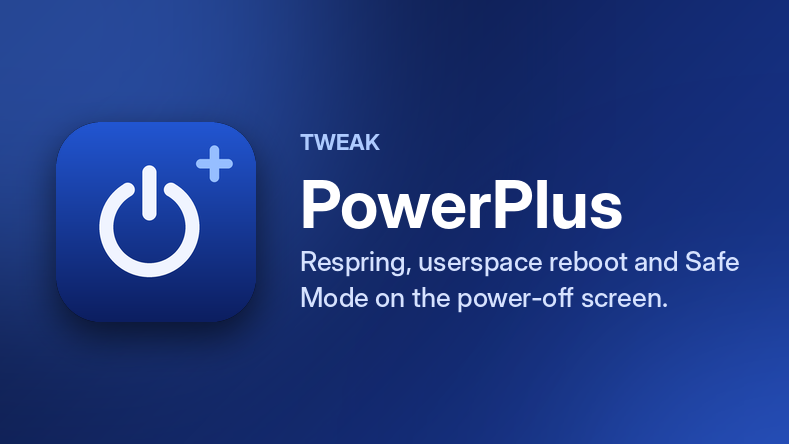
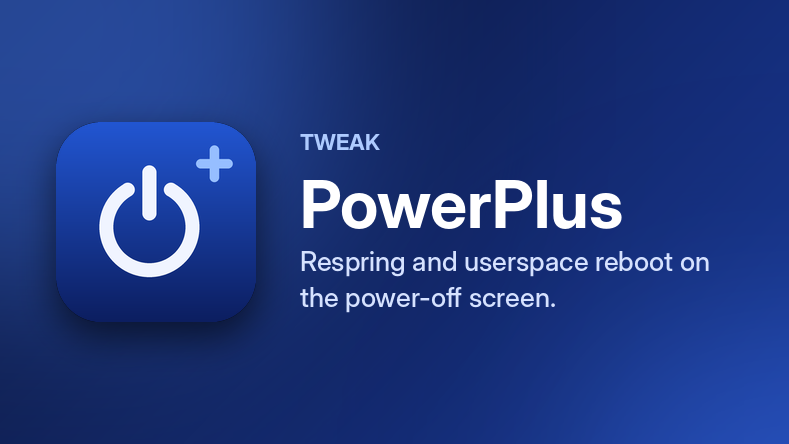
PowerPlus 1.0.1: remove the Safe Mode button
Claude-Session: https://claude.ai/code/session_01PR9mffMuRsox66mp2daeof

Changed region(s): [[0.365, 0.6441, 0.8517, 0.7027], [0.5171, 0.5563, 0.943, 0.6149]]

diff --git a/depictions/com.mymculture.powerplus.html b/depictions/com.mymculture.powerplus.html
@@ -36,14 +36,14 @@
 
   <div class="sec">
     <h2>About</h2>
-    <p><b>PowerPlus</b> adds three buttons to the slide-to-power-off screen, so the things you actually do on a jailbroken device are one hold of the power button away.</p>
+    <p><b>PowerPlus</b> adds two buttons to the slide-to-power-off screen, so the things you actually do on a jailbroken device are one hold of the power button away.</p>
   </div>
 
   <div class="sec">
     <h2>How to use</h2>
     <ol>
       <li>Hold the power button (or power and a volume button) until the power-off screen appears.</li>
-      <li>Tap <b>Respring</b>, <b>Userspace</b> or <b>Safe Mode</b> above Cancel.</li>
+      <li>Tap <b>Respring</b> or <b>Userspace</b> above Cancel.</li>
     </ol>
   </div>
 
@@ -52,13 +52,12 @@
     <ul>
       <li><b>Respring</b> restarts the Home Screen.</li>
       <li><b>Userspace</b> does a fast userspace reboot. If your jailbreak doesn't allow it, PowerPlus tells you instead of failing silently.</li>
-      <li><b>Safe Mode</b> restarts the Home Screen with tweaks off.</li>
     </ul>
   </div>
 
   <div class="sec">
     <h2>Details</h2>
-    <div class="kv"><span>Version</span><span>1.0</span></div>
+    <div class="kv"><span>Version</span><span>1.0.1</span></div>
     <div class="kv"><span>Author</span><span>MYM Culture</span></div>
     <div class="kv"><span>Section</span><span>Tweaks</span></div>
     <div class="kv"><span>Compatibility</span><span>iOS 14.0 + (rootless)</span></div>

diff --git a/index.html b/index.html
@@ -116,8 +116,8 @@
     <article class="card">
       <img class="ic" src="assets/icon_com.mymculture.powerplus.png" alt="">
       <div class="meta">
-        <h3>PowerPlus <span class="ver">v1.0</span></h3>
-        <p>Adds Respring, Userspace Reboot and Safe Mode to the power-off screen.</p>
+        <h3>PowerPlus <span class="ver">v1.0.1</span></h3>
+        <p>Adds Respring and Userspace Reboot to the power-off screen.</p>
         <div class="sub">com.mymculture.powerplus · 12 KB</div>
       </div>
       <div class="actions">

diff --git a/src/powerplus/Tweak.m b/src/powerplus/Tweak.m
@@ -1,7 +1,6 @@
-// PowerPlus - adds Respring, Userspace Reboot and Safe Mode to the power-off screen.
+// PowerPlus - adds Respring and Userspace Reboot to the power-off screen.
 #import "../common/cb.h"
 #import <spawn.h>
-#import <signal.h>
 #import <sys/wait.h>
 
 #define PP_DOMAIN CFSTR("com.mymculture.powerplus")
@@ -31,13 +30,6 @@ static void PPRespring(void) {
     dispatch_after(dispatch_time(DISPATCH_TIME_NOW, (int64_t)(2.5 * NSEC_PER_SEC)), dispatch_get_main_queue(), ^{ exit(0); });
 }
 
-static void PPSafeMode(void) {
-    // a SpringBoard crash is what sends the tweak loader into Safe Mode
-    signal(SIGSEGV, SIG_DFL);
-    raise(SIGSEGV);
-    volatile int *p = NULL; *p = 1;
-}
-
 static void PPAlert(UIView *from, NSString *title, NSString *msg) {
     UIViewController *vc = from.window.rootViewController;
     while (vc.presentedViewController) vc = vc.presentedViewController;
@@ -57,7 +49,7 @@ static void PPUserspace(UIView *from) {
         }
         // still here a moment later means the reboot didn't happen
         dispatch_after(dispatch_time(DISPATCH_TIME_NOW, (int64_t)(4 * NSEC_PER_SEC)), dispatch_get_main_queue(), ^{
-            PPAlert(from, @"Userspace Reboot", @"This jailbreak didn't allow a userspace reboot from here. Respring and Safe Mode still work.");
+            PPAlert(from, @"Userspace Reboot", @"This jailbreak didn't allow a userspace reboot from here. Respring still works.");
         });
     });
 }
@@ -70,7 +62,6 @@ static void PPUserspace(UIView *from) {
     switch (b.tag) {
         case 1: PPRespring(); break;
         case 2: PPUserspace(b); break;
-        case 3: PPSafeMode(); break;
     }
 }
 @end
@@ -96,7 +87,7 @@ static void PPLayout(UIView *pdv) {
     if (!gEnabled) { bar.hidden = YES; return; }
     if (!bar) {
         bar = [[UIStackView alloc] initWithArrangedSubviews:@[
-            PPButton(@"Respring", 1), PPButton(@"Userspace", 2), PPButton(@"Safe Mode", 3)]];
+            PPButton(@"Respring", 1), PPButton(@"Userspace", 2)]];
         bar.axis = UILayoutConstraintAxisHorizontal;
         bar.distribution = UIStackViewDistributionFillEqually;
         bar.spacing = 10;
@@ -106,7 +97,7 @@ static void PPLayout(UIView *pdv) {
     if (bar.superview != pdv) [pdv addSubview:bar];
     if (pdv.subviews.lastObject != bar) [pdv bringSubviewToFront:bar];
     CGRect b = pdv.bounds;
-    CGFloat w = MIN(b.size.width - 40, 420), h = 46;
+    CGFloat w = MIN(b.size.width - 40, 320), h = 46;
     CGFloat y = b.size.height * 0.66;
     UIView *cancel = CBIvar(pdv, "_cancelButton");
     if ([cancel isKindOfClass:[UIView class]] && cancel.superview) {
